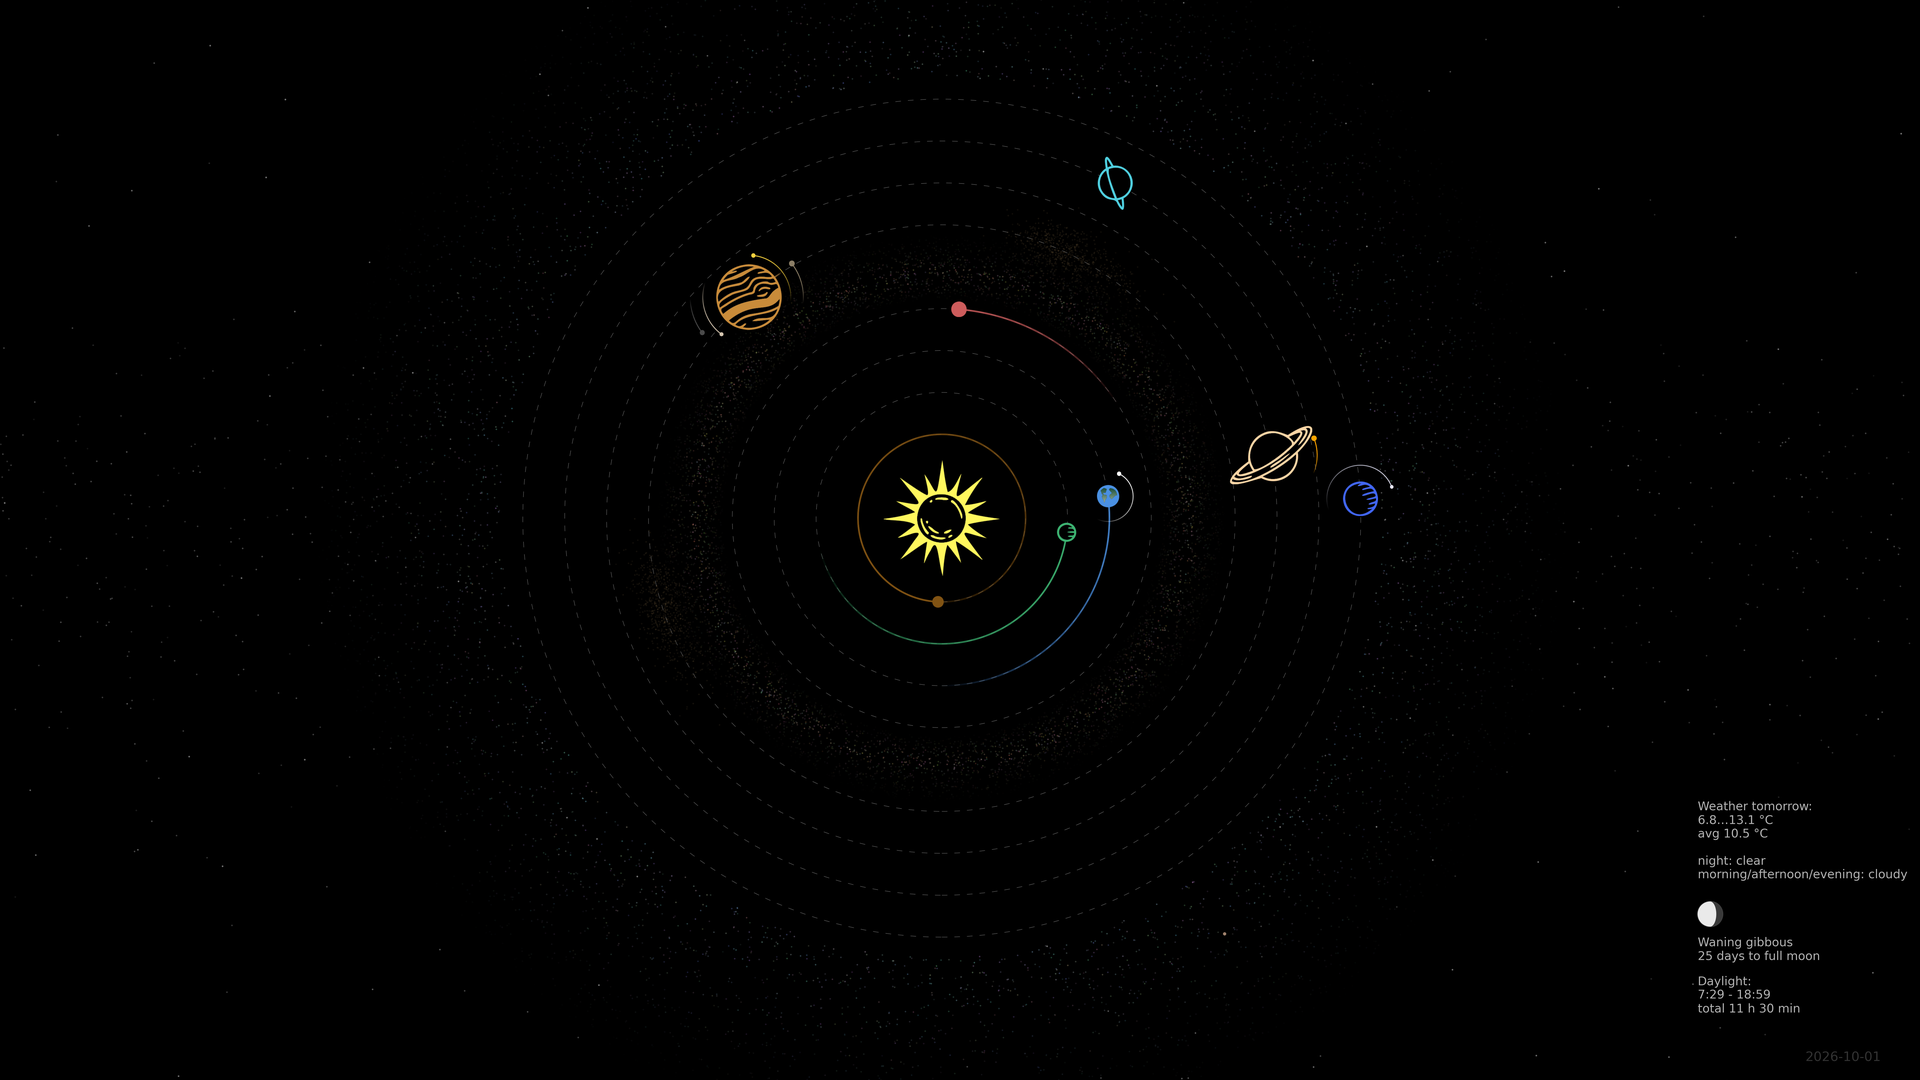
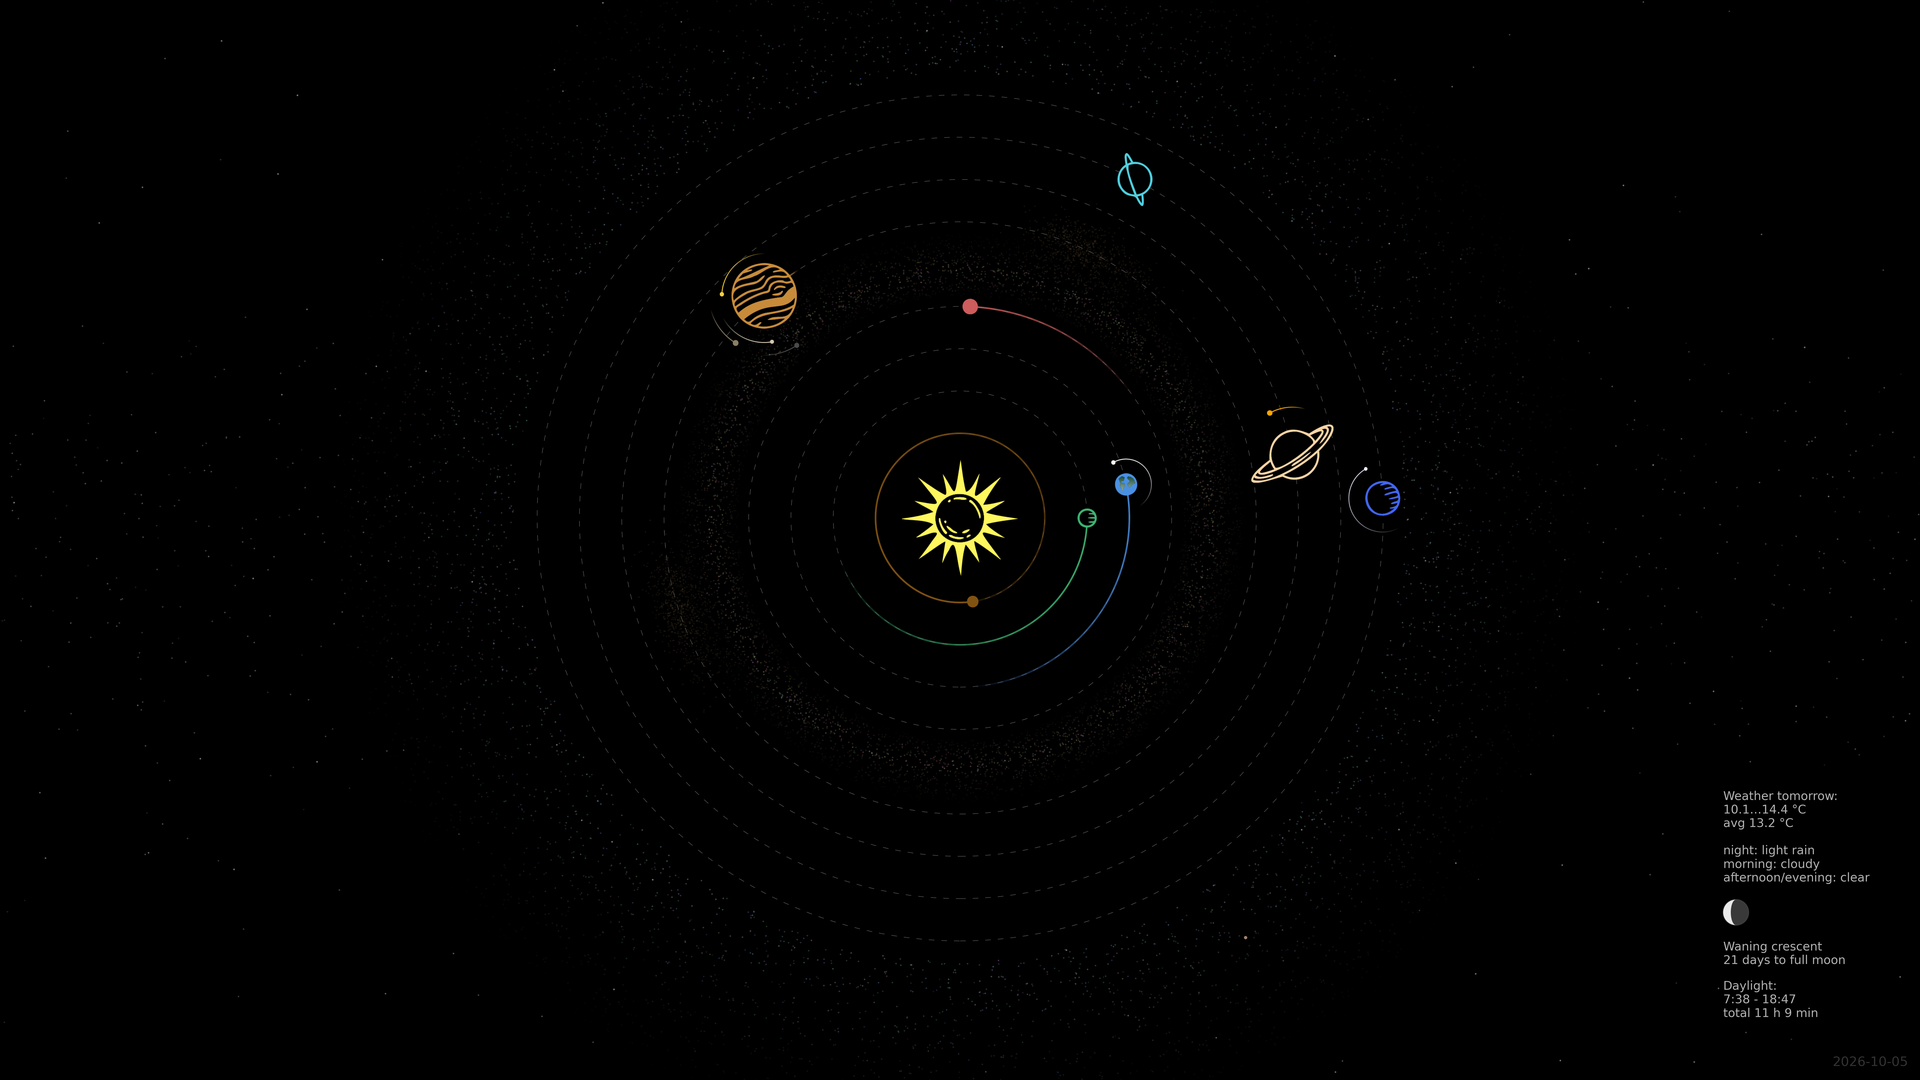
Moon phase aligned to middle, debug messages cleanup

diff --git a/solarmap.py b/solarmap.py
@@ -441,7 +441,7 @@ def get_horizons_longitude(body_id, date_str, center="500@10", name=None):
             r = requests.get(url, params=params, timeout=15)
             if r.status_code == 503:
                 wait = 2 ** attempt
-                print(f"Information unavailable for {label}, retrying in {wait} s...")
+                print(f"Fetch failed for {label}, retrying in {wait} s...")
                 time.sleep(wait)
                 continue
             r.raise_for_status()
@@ -460,7 +460,7 @@ def get_horizons_longitude(body_id, date_str, center="500@10", name=None):
             x = float(data.split("X =")[1].split()[0])
             y = float(data.split("Y =")[1].split()[0])
             longitude = math.degrees(math.atan2(y, x)) % 360
-            print(f"{label} longitude fetched")
+            print(f"{label} longitude fetched.")
             return longitude
         except Exception as e:
             print(f"Fetch failed for {label}: {e}")
@@ -495,7 +495,6 @@ def fetch_all_horizons(fetch_list, date_str):
     return results
 
 # Fetch longitudes from Horizons (one request per planet)
-print("FETCHING PLANET LONGITUDES FROM JPL HORIZONS")
 planet_fetches = [{'name': n, 'body_id': HORIZONS_IDS[n], 'center': '500@10'} for n in planets]
 all_planet_results = fetch_all_horizons(planet_fetches, horizons_date)
 longitudes = {n: all_planet_results[n] for n in planets}
@@ -942,7 +941,6 @@ MOON_DATA = {
     },
 }
 
-print("FETCHING MOON LONGITUDES FROM JPL HORIZONS")
 moon_fetches = [{'name': n, 'body_id': d['body_id'], 'center': d['center']} for n, d in MOON_DATA.items()]
 all_moon_results = fetch_all_horizons(moon_fetches, horizons_date)
 moon_longitudes = {n: all_moon_results[n] for n in MOON_DATA}
@@ -1095,7 +1093,6 @@ if show_info_text:
 
 if show_info_text:
     # Fetch everything from sunrisesunset.io
-    print("FETCHING SUNRISE/MOON PHASE DATA FROM SUNRISESUNSET.IO")
     sun_moon = get_sun_moon_data(latitude, longitude, horizons_date)
 
     # Timezone (for reference, already baked into returned times)
@@ -1139,8 +1136,8 @@ if show_info_text:
     is_waxing  = is_waxing_val if is_waxing_val is not None else (illumination > 0.99)
 
     # Days to next full moon
-    print("Fetching next full moon from USNO...")
     days_to_full = get_next_full_moon(horizons_date)
+    print("Next full moon fetched.")
 
 
 
@@ -1230,7 +1227,7 @@ for i, box in enumerate(reversed(info_boxes)):
 
         # top-left inside the box
         moon_indicator_x = box_left + moon_radius + box_padding
-        moon_indicator_y = box_bottom + box_height - moon_radius - box_padding - 0.02
+        moon_indicator_y = box_bottom + box_height - moon_radius - box_padding - 0.0075
 
         # Draw dark gray base circle
         ax.add_patch(plt.Circle((moon_indicator_x, moon_indicator_y), moon_radius, 
